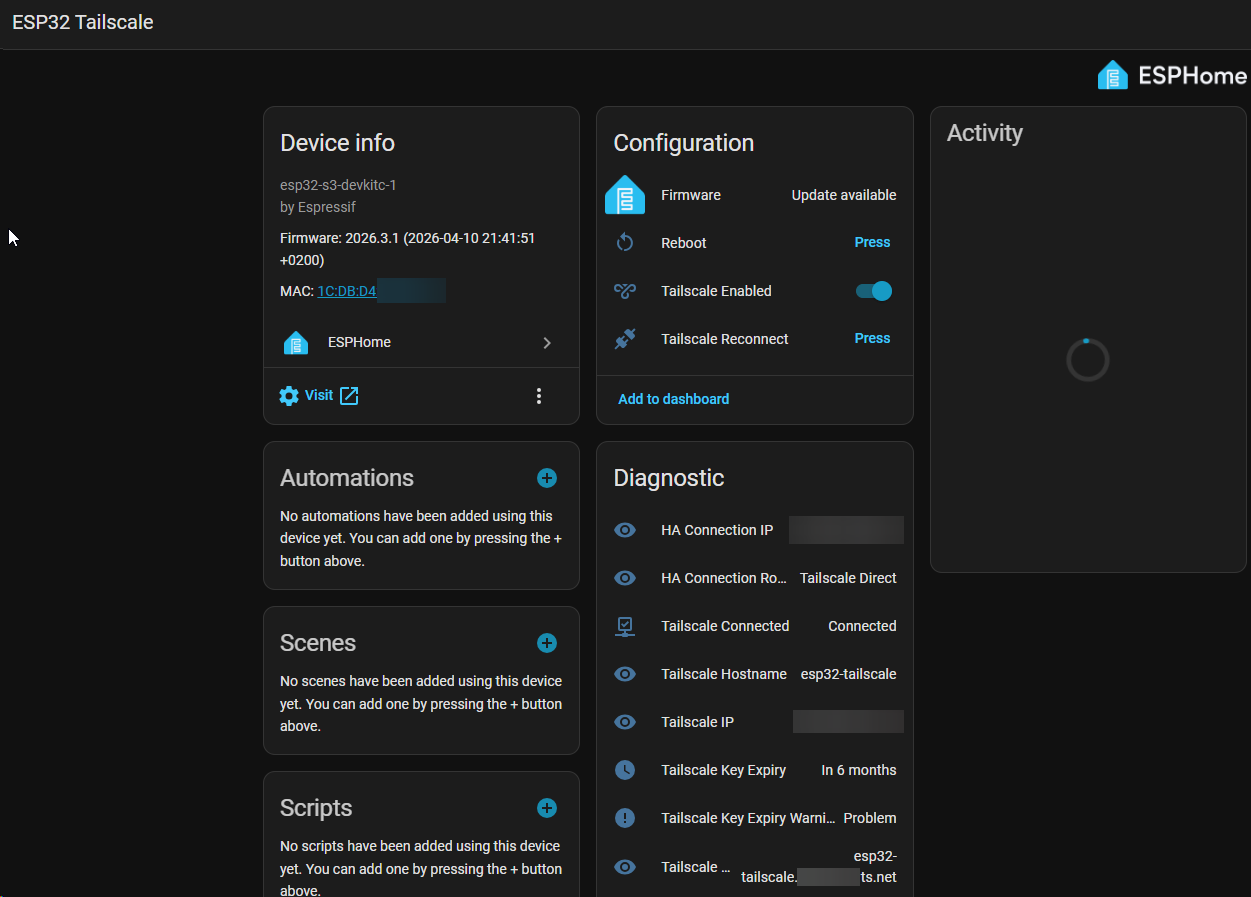
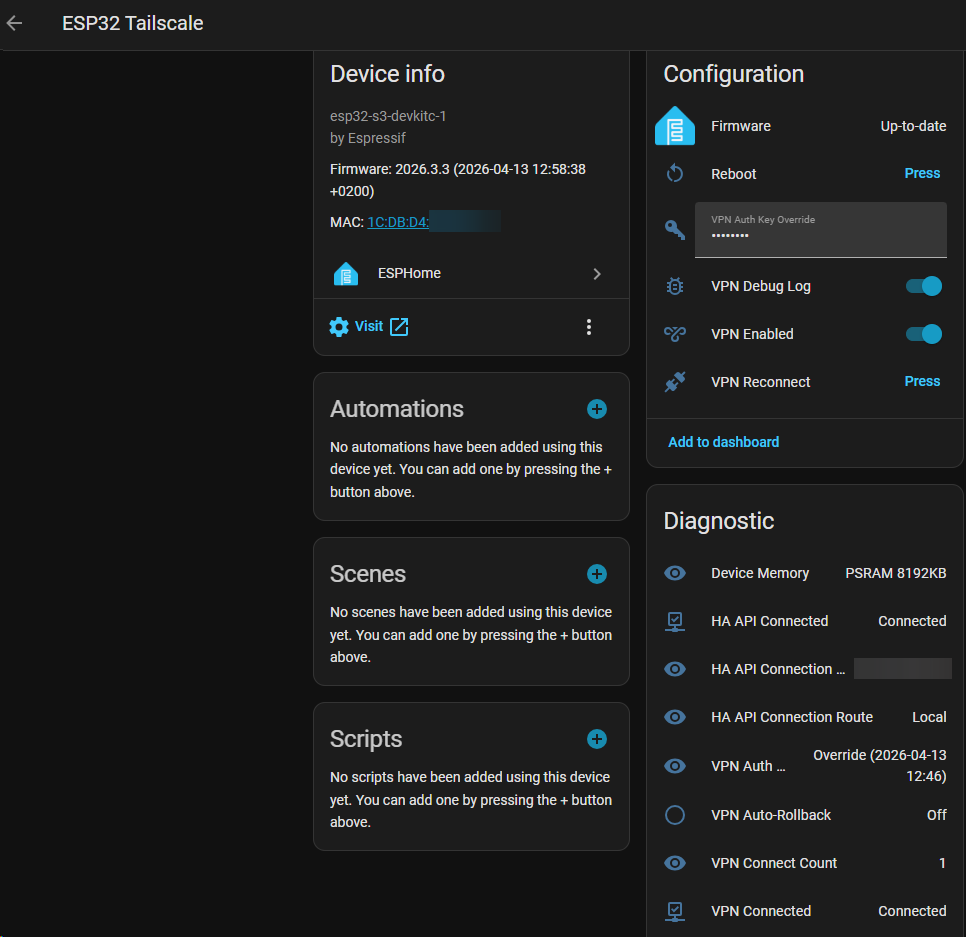
docs: update entity reference, device screenshot, dashboard automation
Entity reference: fix VPN Control Plane description (friendly name not
URL), add Headscale notes to MagicDNS/Network/Node Key Expiry, add
max length to Auth Key Override. Replace device page screenshot with
current Headscale-connected state. Remove stale dashboard card image
reference. Rewrite key expiry automation to hourly foreach over all
ESP devices instead of a single hardcoded entity.

diff --git a/README.md b/README.md
@@ -318,15 +318,15 @@ All entities are created automatically when you include the package.
 | --- | --- |
 | **VPN IP** | The `100.x.y.z` address assigned to this node. Empty until connected. |
 | **VPN Hostname** | The hostname this node registered with, e.g. `esp32-tailscale`. |
-| **VPN MagicDNS** | The FQDN, e.g. `esp32-tailscale.tailXXXXX.ts.net`. |
-| **VPN Network** | Just the tailnet domain portion, e.g. `tailXXXXX.ts.net`. |
+| **VPN MagicDNS** | The FQDN, e.g. `esp32-tailscale.tailXXXXX.ts.net` (Tailscale SaaS) or `esp32-tailscale.headscale.local` (Headscale with `magic_dns: true`). Unknown if MagicDNS is not configured on the control plane. |
+| **VPN Network** | The tailnet domain, e.g. `tailXXXXX.ts.net` (Tailscale SaaS) or the Headscale `base_domain`. Unknown if not provided by the control plane. |
 | **Device Memory** | Reports `PSRAM <size>KB` or `Internal RAM` so you can confirm PSRAM was detected. |
 | **VPN Setup Hint** | Human-readable next-action hint, e.g. `wifi use_address: 100.x.y.z`. Shows auth-source-aware failure messages after 60 s, node key expiry deadline date when applicable, and clickable GitHub README links. |
 | **VPN Peer Status** | `OK` / `Warning` / `Full` based on how close you are to the `max_peers` limit. |
-| **VPN Node Key Expiry** | ISO-8601 timestamp of the node's key expiry (`device_class: timestamp`). Once you disable key expiry on the node it becomes empty — HA renders that as **Unknown**, which is the correct state for a timestamp that no longer applies. See the **VPN Node Key Expiry Warning** binary sensor for the simple on/off view. |
+| **VPN Node Key Expiry** | ISO-8601 timestamp of the node's key expiry (`device_class: timestamp`). Shows **Unknown** when key expiry is disabled (Tailscale SaaS: click "Disable key expiry") or not applicable (Headscale: no expiry by default). Unknown is the correct, healthy state. See the **VPN Node Key Expiry Warning** binary sensor for the simple on/off view. |
 | **HA API Connection Route** | How the *currently-connected* HA instance is reaching the device: `Tailscale Direct`, `Tailscale DERP`, `Local`, or `Unknown`. Updates live. |
 | **HA API Connection IP** | The IP address of the currently-connected HA API client. Deduplicated when multiple clients connect. |
-| **VPN Control Plane** | The control-plane URL in use (`controlplane.tailscale.com` for Tailscale SaaS, or the custom `login_server` value for Headscale). Static — set at boot. |
+| **VPN Control Plane** | Friendly name of the active control plane: `Tailscale` when using SaaS, `Headscale` when `login_server` points elsewhere. Static — set at boot. |
 | **VPN Login Server** | The raw `login_server` YAML value (empty for Tailscale SaaS). Static — set at boot. |
 | **VPN Auth Key Source** | Shows `Default (YAML)` when using the built-in auth key, or `Override (YYYY-MM-DD HH:MM)` with the timestamp when a runtime override is active. |
 
@@ -345,7 +345,7 @@ All entities are created automatically when you include the package.
 
 | Entity | Description |
 | --- | --- |
-| **VPN Auth Key Override** | Password-mode text input. Submit a new Tailscale auth key to replace the YAML default at runtime — no reflash needed. The key is persisted in NVS across reboots. Submit an empty value to revert to the YAML default. See **VPN Auth Key Source** for which key is active. |
+| **VPN Auth Key Override** | Password-mode text input. Submit a new auth key (`tskey-auth-...` for Tailscale SaaS, `hskey-auth-...` for Headscale) to replace the YAML default at runtime — no reflash needed. The key is persisted in NVS across reboots. Submit an empty value to revert to the YAML default. See **VPN Auth Key Source** for which key is active. Max 128 characters. |
 
 ### Switches
 
@@ -439,9 +439,6 @@ Once the device is added via the ESPHome integration, all entities show up under
 
 ### Dashboard card
 
-![Home Assistant Dashboard Card](docs/images/ha-dashboard-card.png)
-<!-- IMAGE: Finished Home Assistant dashboard card showing connected state, IP, peers direct/DERP counts, route, uptime, reboot/reconnect buttons, enable switch. -->
-
 ```yaml
 type: entities
 title: Tailscale ESP32
@@ -476,23 +473,33 @@ entities:
 
 ### Automation: warn if key expiry is still enabled
 
-If you forget to disable key expiry on a new node, this automation nags you as soon as the device comes online with expiry still set. The `VPN Node Key Expiry Warning` binary sensor is `on` whenever the control plane reports a non-zero expiry.
+If you forget to disable key expiry on a new node, this automation checks every hour and warns you about **any** ESP device that still has key expiry enabled. Works automatically with multiple devices — no need to list entity IDs by hand.
 
 ```yaml
-alias: Tailscale key expiry still enabled
+alias: Tailscale node key expiry check
 trigger:
-  - platform: state
-    entity_id: binary_sensor.esp32_tailscale_vpn_node_key_expiry_warning
-    to: "on"
-    for: "00:02:00"
+  - platform: time_pattern
+    hours: "/1"
 action:
+  - variables:
+      warnings: >
+        {{ states.binary_sensor
+           | selectattr('entity_id', 'search', '_vpn_node_key_expiry_warning$')
+           | selectattr('state', 'eq', 'on')
+           | map(attribute='entity_id')
+           | list }}
+  - condition: template
+    value_template: "{{ warnings | length > 0 }}"
   - service: notify.mobile_app_phone
     data:
       title: "Tailscale key expiry still on"
       message: >
-        ESP32 Tailscale node key will expire at
-        {{ states('text_sensor.esp32_tailscale_vpn_node_key_expiry') }}.
-        Open the Tailscale admin console and click "Disable key expiry".
+        {% for entity_id in warnings %}
+        {% set device = device_attr(device_id(entity_id), 'name') %}
+        {% set expiry_id = entity_id | replace('binary_sensor.', 'text_sensor.') | replace('_warning', '') %}
+        - {{ device }}: expires {{ states(expiry_id) }}
+        {% endfor %}
+        Open the admin console and click "Disable key expiry" for each device.
 ```
 
 ---
